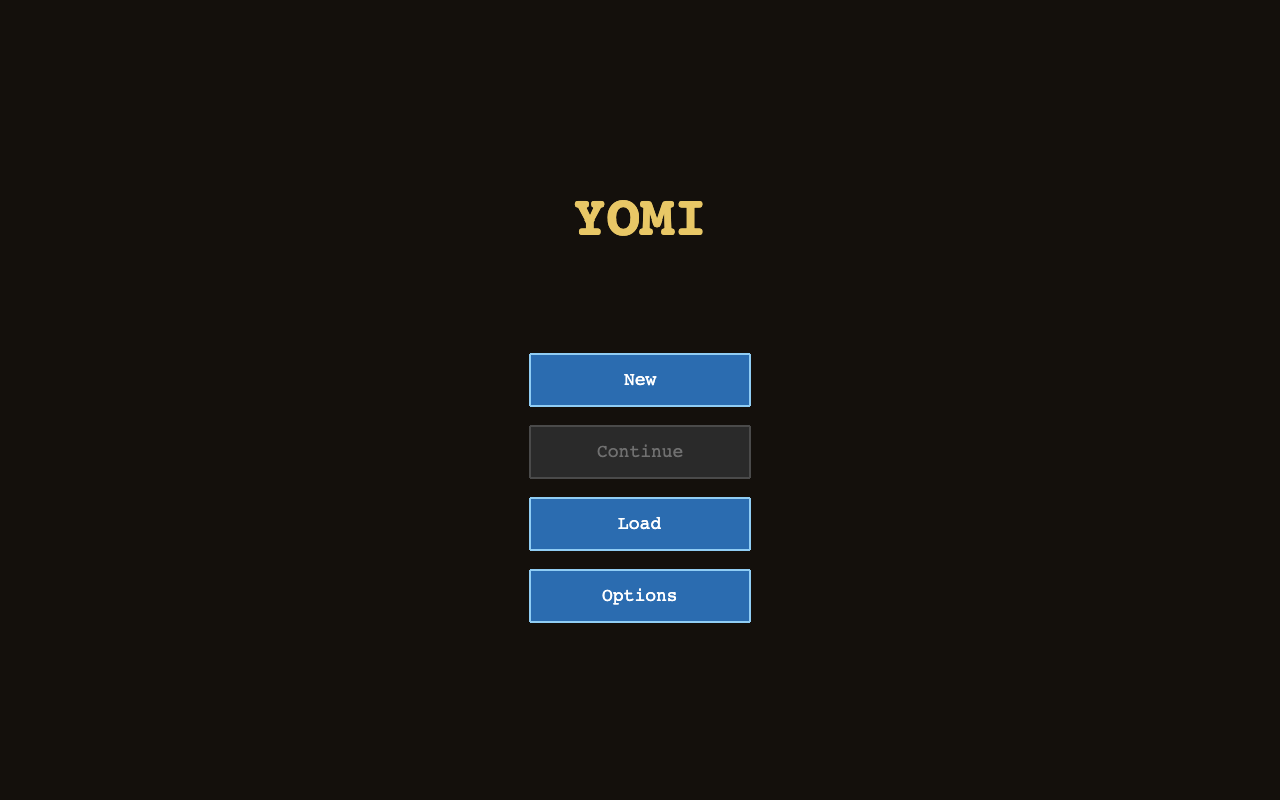
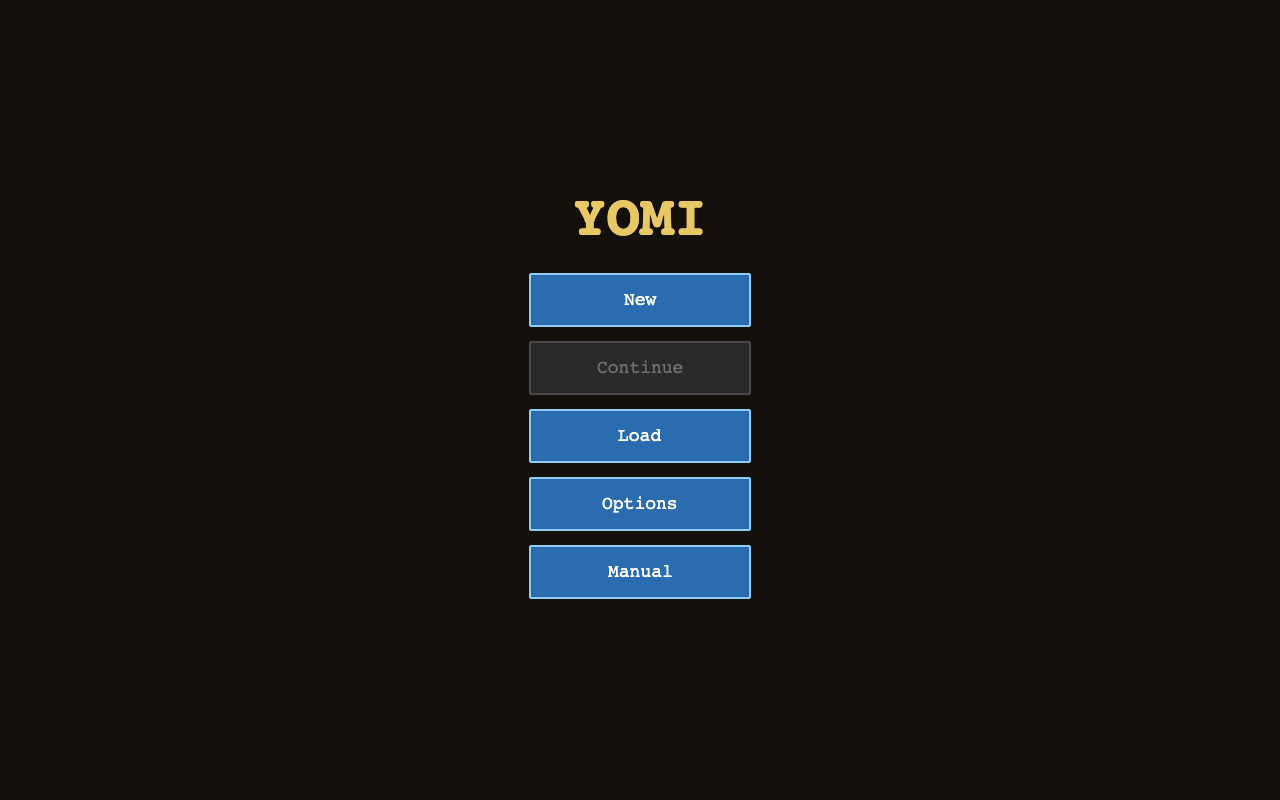
Show the player's manual from the menu, with a way back to the game
Manual on the menu lays docs/manual/README.md, rendered with marked and its
screenshots bundled, over the page as HTML. Its Back to game link or Esc
closes it, leaving the menu and the game paused under it as they were.

Changed region(s): [[0.4062, 0.3438, 0.5938, 0.7812]]

diff --git a/src/scenes/MenuScene.ts b/src/scenes/MenuScene.ts
@@ -13,7 +13,7 @@ type MenuView = 'main' | 'options' | 'load'
 
 const BUTTON_W = 220
 const BUTTON_H = 52
-const BUTTON_GAP = 20
+const BUTTON_GAP = 16
 /** A save slot's row in the Load list: wide enough for its party, level, turn and date. */
 const SLOT_W = 620
 const SLOT_H = 44
@@ -57,6 +57,8 @@ export class MenuScene extends Phaser.Scene {
   private view: MenuView = 'main'
   /** Whether Continue has anything to go to: a paused game, or a slot that can be loaded. */
   private canContinue = false
+  /** Whether the manual is over the menu, or on its way: the menu then takes no clicks or keys. */
+  private manualOpen = false
 
   constructor() {
     super('Menu')
@@ -75,7 +77,8 @@ export class MenuScene extends Phaser.Scene {
     const continueButton = this.createButton('Continue', () => this.onContinue(), this.canContinue)
     const loadButton = this.createButton('Load', () => this.show('load'), true)
     const optionsButton = this.createButton('Options', () => this.show('options'), true)
-    this.buttons = [newButton, continueButton, loadButton, optionsButton]
+    const manualButton = this.createButton('Manual', () => this.openManual(), true)
+    this.buttons = [newButton, continueButton, loadButton, optionsButton, manualButton]
 
     this.optionsTitle = this.add
       .text(0, 0, 'Options', { fontFamily: 'monospace', fontSize: '24px', color: '#e8c766', fontStyle: 'bold' })
@@ -109,15 +112,17 @@ export class MenuScene extends Phaser.Scene {
 
   /** What the in-browser tests see of the menu; see testHook.ts. */
   probe(): MenuProbe {
-    const [newButton, continueButton, loadButton, optionsButton] = this.buttons
+    const [newButton, continueButton, loadButton, optionsButton, manualButton] = this.buttons
     return {
       showingOptions: this.view === 'options',
       showingLoad: this.view === 'load',
+      showingManual: this.manualOpen,
       buttons: {
         new: buttonProbe(newButton),
         continue: buttonProbe(continueButton, this.canContinue),
         load: buttonProbe(loadButton),
         options: buttonProbe(optionsButton),
+        manual: buttonProbe(manualButton),
         back: buttonProbe(this.backButton),
       },
       slots: this.slots.map(({ button, line, loadable }) => ({ ...buttonProbe(button, loadable), line })),
@@ -151,6 +156,7 @@ export class MenuScene extends Phaser.Scene {
       bg.on('pointerover', () => bg.setFillStyle(0x3182ce))
       bg.on('pointerout', () => bg.setFillStyle(0x2b6cb0))
       bg.on('pointerdown', () => {
+        if (this.manualOpen) return
         this.sound.play('sfx_ui_click', { volume: soundVolume('sfx_ui_click') })
         onClick()
       })
@@ -197,8 +203,9 @@ export class MenuScene extends Phaser.Scene {
     const startY = height / 2 - 20
     this.title.setPosition(centerX, startY - 160)
 
+    // The main buttons start a little above the rest, so that all five fit the smallest window.
     this.buttons.forEach((button, i) => {
-      button.setPosition(centerX, startY + i * (BUTTON_H + BUTTON_GAP))
+      button.setPosition(centerX, startY - 80 + i * (BUTTON_H + BUTTON_GAP))
     })
 
     const rowW = SLIDER_LABEL_W + SLIDER_W + SLIDER_VALUE_W
@@ -259,6 +266,20 @@ export class MenuScene extends Phaser.Scene {
     else this.scene.start('World', { game: file.game })
   }
 
+  /**
+   * Lays the player's manual over the menu, as a page of its own whose Back to game link
+   * (or Esc) returns here, to the menu as it was and the game paused under it.
+   */
+  private openManual(): void {
+    this.manualOpen = true
+    this.input.keyboard?.resetKeys()
+    void import('./manualOverlay.ts').then(({ openManual }) =>
+      openManual(() => {
+        this.manualOpen = false
+      }),
+    )
+  }
+
   /** Swaps the main buttons for the volume controls or the save slots, or back. */
   private show(view: MenuView): void {
     this.view = view
@@ -292,6 +313,7 @@ export class MenuScene extends Phaser.Scene {
   }
 
   private onEscape(): void {
+    if (this.manualOpen) return
     if (this.view !== 'main') this.show('main')
     else if (this.resumeKey) this.onContinue()
   }

diff --git a/src/scenes/manualOverlay.ts b/src/scenes/manualOverlay.ts
@@ -1,0 +1,100 @@
+import manualMarkdown from '../../docs/manual/README.md?raw'
+import { renderManual } from './manualHtml.ts'
+
+/**
+ * The player's manual, shown over the game as a page of its own: plain HTML laid over the
+ * canvas, so the game under it, paused behind the menu, is left exactly as it was. The menu
+ * loads this module only when Manual is clicked, which keeps the manual out of the first load.
+ */
+
+/** The manual's screenshots, as the page serves them, by their path in the Markdown. */
+const IMAGES = import.meta.glob<string>('../../docs/manual/images/*.png', {
+  eager: true,
+  query: '?url',
+  import: 'default',
+})
+
+const imageUrl = (src: string): string => IMAGES[`../../docs/manual/${src}`] ?? src
+
+const STYLE_ID = 'yomi-manual-style'
+const STYLE = `
+#yomi-manual {
+  position: fixed; inset: 0; z-index: 10; overflow-y: auto;
+  background: #14100c; color: #e6dccb;
+  font: 16px/1.6 Georgia, 'Times New Roman', serif;
+}
+#yomi-manual:focus { outline: none; }
+#yomi-manual .manual-bar {
+  position: sticky; top: 0; padding: 10px 16px;
+  background: #1f1912; border-bottom: 1px solid #4a3d2c;
+  font-family: monospace;
+}
+#yomi-manual .manual-back { color: #90cdf4; font-size: 16px; text-decoration: none; }
+#yomi-manual .manual-back:hover { text-decoration: underline; }
+#yomi-manual .manual-page { max-width: 860px; margin: 0 auto; padding: 16px 16px 64px; }
+#yomi-manual h1, #yomi-manual h2, #yomi-manual h3 { color: #e8c766; font-family: monospace; line-height: 1.3; }
+#yomi-manual [id] { scroll-margin-top: 56px; }
+#yomi-manual h2 { border-bottom: 1px solid #4a3d2c; padding-bottom: 4px; margin-top: 2em; }
+#yomi-manual a { color: #90cdf4; }
+#yomi-manual img { max-width: 100%; border: 1px solid #4a3d2c; }
+#yomi-manual hr { border: none; border-top: 1px solid #4a3d2c; }
+#yomi-manual table { border-collapse: collapse; margin: 1em 0; }
+#yomi-manual th, #yomi-manual td { border: 1px solid #4a3d2c; padding: 4px 10px; text-align: left; vertical-align: top; }
+#yomi-manual th { background: #1f1912; }
+#yomi-manual code { font-size: 0.9em; }
+`
+
+let html: string | null = null
+
+/**
+ * Lays the manual over the game, at its top, and calls `onClose` once it is closed by its
+ * Back to game link or Esc. While it is open it takes every key, so the game under it hears none.
+ */
+export function openManual(onClose: () => void): void {
+  if (!document.getElementById(STYLE_ID)) {
+    const style = document.createElement('style')
+    style.id = STYLE_ID
+    style.textContent = STYLE
+    document.head.append(style)
+  }
+  html ??= renderManual(manualMarkdown, imageUrl)
+
+  const root = document.createElement('div')
+  root.id = 'yomi-manual'
+  root.tabIndex = -1
+  root.innerHTML =
+    '<div class="manual-bar"><a href="#" class="manual-back">&larr; Back to game</a></div>' +
+    `<article class="manual-page">${html}</article>`
+
+  const close = (): void => {
+    document.removeEventListener('keydown', onKey, true)
+    root.remove()
+    onClose()
+  }
+  // Caught on its way down, so it never reaches the game's keyboard, which listens on the window.
+  const onKey = (event: KeyboardEvent): void => {
+    event.stopPropagation()
+    if (event.key === 'Escape') close()
+  }
+  document.addEventListener('keydown', onKey, true)
+
+  root.addEventListener('click', (event) => {
+    const link = (event.target as Element).closest('a')
+    if (!link) return
+    const href = link.getAttribute('href') ?? ''
+    if (link.classList.contains('manual-back')) {
+      event.preventDefault()
+      close()
+    } else if (href.startsWith('#')) {
+      // The contents' links scroll the manual, leaving the page's address alone.
+      event.preventDefault()
+      root.querySelector(`[id="${CSS.escape(href.slice(1))}"]`)?.scrollIntoView()
+    } else {
+      link.target = '_blank'
+      link.rel = 'noopener'
+    }
+  })
+
+  document.body.append(root)
+  root.focus()
+}

diff --git a/e2e/menu.test.ts b/e2e/menu.test.ts
@@ -23,4 +23,30 @@ describe('the main menu', () => {
     const back = await game.waitFor('Menu', (m) => !m.showingOptions)
     expect(back.buttons.new.visible).toBe(true)
   })
+
+  it('lays the manual over the game, and Back to game returns to the menu and the paused map', async () => {
+    const game = await games.open()
+    await game.newGame()
+    await game.press('Escape')
+    await game.waitForScenes(['Menu'], ['World'])
+    const menu = await game.settled('Menu')
+    await game.click(menu.buttons.manual)
+    await game.waitFor('Menu', (m) => m.showingManual)
+    const manual = game.page.locator('#yomi-manual')
+    await manual.locator('h1', { hasText: "Player's Manual" }).waitFor()
+    // Its screenshots load: an image that failed would fail the test as a failed request.
+    await manual.locator('img').first().evaluate((img: HTMLImageElement) => img.decode())
+
+    await manual.locator('.manual-back').click()
+    await game.waitFor('Menu', (m) => !m.showingManual)
+    expect(await manual.count()).toBe(0)
+    expect(await game.scenes()).toEqual({ running: ['Menu'], paused: ['World'] })
+
+    await game.click(menu.buttons.manual)
+    await game.waitFor('Menu', (m) => m.showingManual)
+    // Esc belongs to the manual while it is open: it must not reach the menu and resume the game.
+    await game.page.keyboard.press('Escape')
+    await game.waitFor('Menu', (m) => !m.showingManual)
+    expect(await game.scenes()).toEqual({ running: ['Menu'], paused: ['World'] })
+  })
 })

diff --git a/src/scenes/manualHtml.test.ts b/src/scenes/manualHtml.test.ts
@@ -1,0 +1,32 @@
+import { readFileSync } from 'node:fs'
+import { describe, expect, it } from 'vitest'
+import { headingSlug, renderManual } from './manualHtml.ts'
+
+describe('headingSlug', () => {
+  it('makes the anchors GitHub does', () => {
+    expect(headingSlug('1. Starting a game')).toBe('1-starting-a-game')
+    expect(headingSlug('10. Winning, losing and saving')).toBe('10-winning-losing-and-saving')
+  })
+})
+
+describe('renderManual', () => {
+  it('gives headings ids, numbering repeats', () => {
+    const html = renderManual('# Top\n\n## Notes\n\n## Notes\n', (src) => src)
+    expect(html).toContain('<h1 id="top">Top</h1>')
+    expect(html).toContain('<h2 id="notes">Notes</h2>')
+    expect(html).toContain('<h2 id="notes-1">Notes</h2>')
+  })
+
+  it('passes image paths through the given mapping', () => {
+    const html = renderManual('![The menu](images/menu.png)', (src) => `/served/${src}`)
+    expect(html).toContain('src="/served/images/menu.png"')
+  })
+
+  it('has a heading for every link of the real manual\'s contents', () => {
+    const markdown = readFileSync(new URL('../../docs/manual/README.md', import.meta.url), 'utf8')
+    const html = renderManual(markdown, (src) => src)
+    const anchors = [...markdown.matchAll(/\]\(#([^)]+)\)/g)].map((m) => m[1])
+    expect(anchors.length).toBeGreaterThan(0)
+    for (const anchor of anchors) expect(html).toContain(`id="${anchor}"`)
+  })
+})

diff --git a/src/scenes/manualHtml.ts b/src/scenes/manualHtml.ts
@@ -1,0 +1,37 @@
+import { Marked, type Tokens } from 'marked'
+
+/**
+ * A heading's anchor as GitHub makes it, which is what the manual's contents link to:
+ * lower case, punctuation dropped, spaces to hyphens ("1. Starting a game" → "1-starting-a-game").
+ */
+export function headingSlug(text: string): string {
+  return text
+    .trim()
+    .toLowerCase()
+    .replace(/[^\p{L}\p{N}\s_-]/gu, '')
+    .replace(/\s/g, '-')
+}
+
+/**
+ * The player's manual (`docs/manual/README.md`) as HTML for the game's page: headings
+ * carry the anchors its links name, and each image's path is passed through `imageUrl`,
+ * since the page serves the images from elsewhere than beside the Markdown.
+ */
+export function renderManual(markdown: string, imageUrl: (src: string) => string): string {
+  const used = new Map<string, number>()
+  const marked = new Marked({
+    walkTokens(token) {
+      if (token.type === 'image') (token as Tokens.Image).href = imageUrl((token as Tokens.Image).href)
+    },
+    renderer: {
+      heading({ tokens, depth, text }) {
+        const base = headingSlug(text)
+        const seen = used.get(base) ?? 0
+        used.set(base, seen + 1)
+        const id = seen === 0 ? base : `${base}-${seen}`
+        return `<h${depth} id="${id}">${this.parser.parseInline(tokens)}</h${depth}>\n`
+      },
+    },
+  })
+  return marked.parse(markdown, { async: false })
+}

diff --git a/src/testHook.ts b/src/testHook.ts
@@ -39,8 +39,17 @@ export interface MenuProbe {
   showingOptions: boolean
   /** Whether the save slots are shown, which the Load button does. */
   showingLoad: boolean
+  /** Whether the player's manual is laid over the menu, which the Manual button does. */
+  showingManual: boolean
   /** `continue` is enabled over a paused game, or when a slot can be loaded. */
-  buttons: { new: ButtonProbe; continue: ButtonProbe; load: ButtonProbe; options: ButtonProbe; back: ButtonProbe }
+  buttons: {
+    new: ButtonProbe
+    continue: ButtonProbe
+    load: ButtonProbe
+    options: ButtonProbe
+    manual: ButtonProbe
+    back: ButtonProbe
+  }
   /** The three save slots' rows, each with the line it reads; enabled when it holds a game that can be loaded. */
   slots: Array<ButtonProbe & { line: string }>
 }

diff --git a/CLAUDE.md b/CLAUDE.md
@@ -99,7 +99,7 @@ Rules of progression: winning a battle earns the experience its foes are worth t
 
 ### Scene layer (`src/scenes/`)
 
-Scenes are `Boot` → `Menu` → `Party` ⇄ `Creation` → `World` ⇄ `Battle`, with `GuildHall` (⇄ `Creation`) over `World`. New on the menu starts `Party`, which asks whether to take the ready-made party (shown under its button as portraits and names, a hover telling what a member comes to) or to create one's own and then shows the roster: a row for each place up to the party limit, where a member is edited or removed and an empty place leads to `Creation` or to the prerolls, a row of faces where a click adds that character (one already in the party is greyed out, as names must be unique). `Party` holds the party as drafts and passes them to `Creation` and back as scene data (`{ drafts, index? }`, `index` being the member to edit); Begin makes the characters and a `GameState` of them in the first empty save slot, asking which to overwrite when all three are full, and starts `World`. `Creation` walks four steps (attributes, skills, perks, name and portrait) over one draft, the perks step switching between the perk tree and the spell tree, every control calling a function of `creation.ts`; a plus or minus held down repeats as a held key does, the hold being the scene's, since each change redraws the button. The menu's Continue resumes the game paused under it, or with none loads the slot written last; Load lists the three slots and starts `World`, or `Battle` with the saved battle (`saved` in its scene data), for the one picked. `GuildHall` is an overlay over the paused map, opened by the footer's Guild Hall button at Oakvale: the party and the reserves as faces (a click picks one, a click on one of the other row swaps the two, or To reserves and To party move it), the hall's upgrade and the shrine's side by side, and Recruit, which offers the pre-rolls not in the company or Create new, which starts `Creation` with `returnTo: 'GuildHall'` and the game (the company's names are taken), and `Creation` starts `GuildHall` again with its draft to recruit, or none on Cancel. Close starts `World` again, as the party under its column may have changed. Among monsters the world map's footer offers Scout, Wait and Attack, and anywhere else Camp and Camp until healed, with Build Watchtower where the land would take one and Build Outpost on a held site without one (a click without the stock says what it costs). The world map draws the land as the player knows it (`seen`): black where never explored, and elsewhere the blight as a tint a level over the grass, a growth on corrupted land (`map_blight`, one animated sprite a hex) and a faint line along clean land's edge, under a veil where out of sight, rendered into a texture whenever that changes; a location shows once known (a monster location sighted, a town or resource explored), faded out of sight, and the header's blighted share is of the land explored; a held site's name is starred and green, with "outpost" under it where one stands, and a threatened one's orange with the days until it falls. When the game is won or lost a screen covers the map: End (to `Menu`, the save kept) and Continue (endless) after a victory, Main Menu after the encampment falls. Attacking a monster location starts `Battle` with that location's id; a victory clears the location and returns to `World`, and a defeat deletes the game's slot and goes back to `Menu`. `Inventory` is the character panel, an overlay showing one party member at a time in four tabs (Character, Skills, Spells, Inventory): over `Battle` (C, S, B, I), where gear can be changed for an action point but skill points, perks and spells are only shown, and over `World` (C), where all can be spent and gear is changed freely, through the baggage. The Skills tab lists only the perks a character has taken, spells aside; its Perk Tree button (or P) swaps the panel's content for the perk tree, a view with no tab button of its own, where a click on an open perk takes it and Esc steps back to the Skills tab. The Spells tab lists the spells known and the mana carried, and its Spell Tree button (or K) opens the spell tree the same way; on the world map a heal's Cast button casts it (`castOnWorldMap`), a heal of one asking for a portrait to be clicked (`worldCast`). It is handed the whole party (`PanelMember`s: each character, and in battle what its gear may do) and the member to open on, and when it closes it tells the scene under it which member it last showed, as the data of the resume.
+Scenes are `Boot` → `Menu` → `Party` ⇄ `Creation` → `World` ⇄ `Battle`, with `GuildHall` (⇄ `Creation`) over `World`. New on the menu starts `Party`, which asks whether to take the ready-made party (shown under its button as portraits and names, a hover telling what a member comes to) or to create one's own and then shows the roster: a row for each place up to the party limit, where a member is edited or removed and an empty place leads to `Creation` or to the prerolls, a row of faces where a click adds that character (one already in the party is greyed out, as names must be unique). `Party` holds the party as drafts and passes them to `Creation` and back as scene data (`{ drafts, index? }`, `index` being the member to edit); Begin makes the characters and a `GameState` of them in the first empty save slot, asking which to overwrite when all three are full, and starts `World`. `Creation` walks four steps (attributes, skills, perks, name and portrait) over one draft, the perks step switching between the perk tree and the spell tree, every control calling a function of `creation.ts`; a plus or minus held down repeats as a held key does, the hold being the scene's, since each change redraws the button. The menu's Continue resumes the game paused under it, or with none loads the slot written last; Load lists the three slots and starts `World`, or `Battle` with the saved battle (`saved` in its scene data), for the one picked; Manual lays the player's manual over the page as HTML (`manualOverlay.ts`, loaded only then, rendered from `docs/manual/README.md` by `manualHtml.ts` with `marked`), taking every key until its Back to game link or Esc closes it, so the game under the menu is left as it was. `GuildHall` is an overlay over the paused map, opened by the footer's Guild Hall button at Oakvale: the party and the reserves as faces (a click picks one, a click on one of the other row swaps the two, or To reserves and To party move it), the hall's upgrade and the shrine's side by side, and Recruit, which offers the pre-rolls not in the company or Create new, which starts `Creation` with `returnTo: 'GuildHall'` and the game (the company's names are taken), and `Creation` starts `GuildHall` again with its draft to recruit, or none on Cancel. Close starts `World` again, as the party under its column may have changed. Among monsters the world map's footer offers Scout, Wait and Attack, and anywhere else Camp and Camp until healed, with Build Watchtower where the land would take one and Build Outpost on a held site without one (a click without the stock says what it costs). The world map draws the land as the player knows it (`seen`): black where never explored, and elsewhere the blight as a tint a level over the grass, a growth on corrupted land (`map_blight`, one animated sprite a hex) and a faint line along clean land's edge, under a veil where out of sight, rendered into a texture whenever that changes; a location shows once known (a monster location sighted, a town or resource explored), faded out of sight, and the header's blighted share is of the land explored; a held site's name is starred and green, with "outpost" under it where one stands, and a threatened one's orange with the days until it falls. When the game is won or lost a screen covers the map: End (to `Menu`, the save kept) and Continue (endless) after a victory, Main Menu after the encampment falls. Attacking a monster location starts `Battle` with that location's id; a victory clears the location and returns to `World`, and a defeat deletes the game's slot and goes back to `Menu`. `Inventory` is the character panel, an overlay showing one party member at a time in four tabs (Character, Skills, Spells, Inventory): over `Battle` (C, S, B, I), where gear can be changed for an action point but skill points, perks and spells are only shown, and over `World` (C), where all can be spent and gear is changed freely, through the baggage. The Skills tab lists only the perks a character has taken, spells aside; its Perk Tree button (or P) swaps the panel's content for the perk tree, a view with no tab button of its own, where a click on an open perk takes it and Esc steps back to the Skills tab. The Spells tab lists the spells known and the mana carried, and its Spell Tree button (or K) opens the spell tree the same way; on the world map a heal's Cast button casts it (`castOnWorldMap`), a heal of one asking for a portrait to be clicked (`worldCast`). It is handed the whole party (`PanelMember`s: each character, and in battle what its gear may do) and the member to open on, and when it closes it tells the scene under it which member it last showed, as the data of the resume.
 
 The party's portraits run down the left of `World`, `Battle` and `Inventory` alike (`PartyColumn`, placed by `partyPanel.ts`), so they seem to stay put under the panel. One member is the active one, marked in gold: in battle the selected unit, on the world map only the member a panel opens for. A click on a portrait makes its member active and a click on the active member's opens its panel (`portraitClick`); in battle a member that cannot be selected (spent, fallen, or during the enemy's turn) has its panel opened at once. A click on a portrait beside the open panel turns the panel to that member. `Menu` is an overlay over `World` or `Battle` (Esc). Both are told which scene to resume by their `resume` scene data; overlays pause the scene under them and resume it on close.
 
@@ -126,7 +126,7 @@ The in-browser tests in `e2e/` are a separate run (`npm run test:browser`, with 
 
 Sprites in `public/assets/sprites/` are generated from `art/` (see Sprites) and audio in `public/assets/audio/` is placeholder; each directory's `README.md` records provenance and licence and should be updated when files are added. `BootScene` preloads every sound in `SOUND_KEYS` (`sounds.ts`) and the sprite atlas with its animations (`atlas.png`, `atlas.json`, `atlas.anims.json`), from which everything that moves is shown: units, what they hold and the world map's locations. A frame is named `<sprite>/<frame>` and an animation `<sprite>/<anim>` (`spriteFrame`, `spriteAnim`), and the animations themselves are written in the sprites' sources, not in the scenes. A unit is drawn as the atlas's sprite named for its `UnitKind`, with `idle` and `walk` animations, so a new unit kind needs a sprite of that name with both and an experience value in `FOE_XP`. Every hero is the `warrior` body, bare-handed, with a sprite laid over it for what is in each hand (`GEAR_SPRITES` in `unitLook.ts`, by the item's icon, from `art/gear/`), so a new weapon or shield icon needs an entry there and a sprite; `BattleScene` puts a hero's gear on its figure again whenever the character panel closes. A strike's lunge and a hit's flash are tweens in `BattleScene`, as they were never frames. `InventoryScene` loads one icon per `ItemIcon` from `assets/sprites/icon_<icon>.png`, keyed by `ITEM_ICON_KEYS` (`itemIcons.ts`). `WorldScene` shows one atlas sprite per `LocationKind`, keyed by `LOCATION_SPRITES`, `map_watchtower` for a tower and `map_blight` on each corrupted hex, each playing its `idle`, and shows the party as its first member's battle figure, gear included. Every scene with a `PartyColumn`, and `Party` and `Creation`, loads one portrait per `PortraitId` from `assets/sprites/portrait_<id>.png` (`portraitKey`), so a new preset needs an id in `PORTRAIT_IDS` and a matching sprite in `art/portraits/`.
 
-`docs/manual/README.md` is the player's manual, its screenshots taken by `e2e/manual.shots.ts` (`vitest.manual.config.ts`, not part of either test run); a change to a rule it states or a screen it shows should update it and retake them. `docs/designs/` holds feature designs, written before a feature is planned: what to build and why, which may be ahead of the code. `docs/implementation-plans/` holds step-by-step plans with completion logs, which are useful for the reasoning behind past fixes.
+`docs/manual/README.md` is the player's manual, which the game shows from its menu (its images bundled from `docs/manual/images/`), its screenshots taken by `e2e/manual.shots.ts` (`vitest.manual.config.ts`, not part of either test run); a change to a rule it states or a screen it shows should update it and retake them. `docs/designs/` holds feature designs, written before a feature is planned: what to build and why, which may be ahead of the code. `docs/implementation-plans/` holds step-by-step plans with completion logs, which are useful for the reasoning behind past fixes.
 
 ### Sprites
 

diff --git a/e2e/CLAUDE.md b/e2e/CLAUDE.md
@@ -4,7 +4,7 @@
 
 ## How a test drives the game
 
-The page is one canvas, so there is nothing to select. A test reads a scene's probe (`src/testHook.ts`) for where things are on screen, and clicks there. All of that goes through `Game` in `driver.ts`:
+The page is one canvas, so there is nothing to select (but for the player's manual, plain HTML laid over it, which `menu.test.ts` reaches through `game.page`'s locators). A test reads a scene's probe (`src/testHook.ts`) for where things are on screen, and clicks there. All of that goes through `Game` in `driver.ts`:
 
 - `useGames()` at the top of a `describe` launches the browser and returns `open()`. After each test it fails the test if the page logged a console error, threw, or had a request fail, which is how a missing asset or a broken layout shows up. Do not catch or filter those to make a test pass.
 - `waitFor(scene, predicate)` polls a scene's probe until the predicate holds, and `waitForScenes(running, paused)` waits for a hand-over. Wait on state, never on time: there are no sleeps here.

diff --git a/docs/manual/README.md b/docs/manual/README.md
@@ -30,6 +30,7 @@ The main menu offers:
 - **Continue**: return to the game paused under the menu or, if none is paused, load the game saved most recently.
 - **Load**: choose one of the three save slots.
 - **Options**: set the volume of the master channel, sound effects and music.
+- **Manual**: read this manual. **Back to game** at its top, or **Esc**, returns to the menu, and the game paused under it is just as you left it.
 
 Press **Esc** on the world map or in battle to open this menu over the game. Press it again to return.
 
